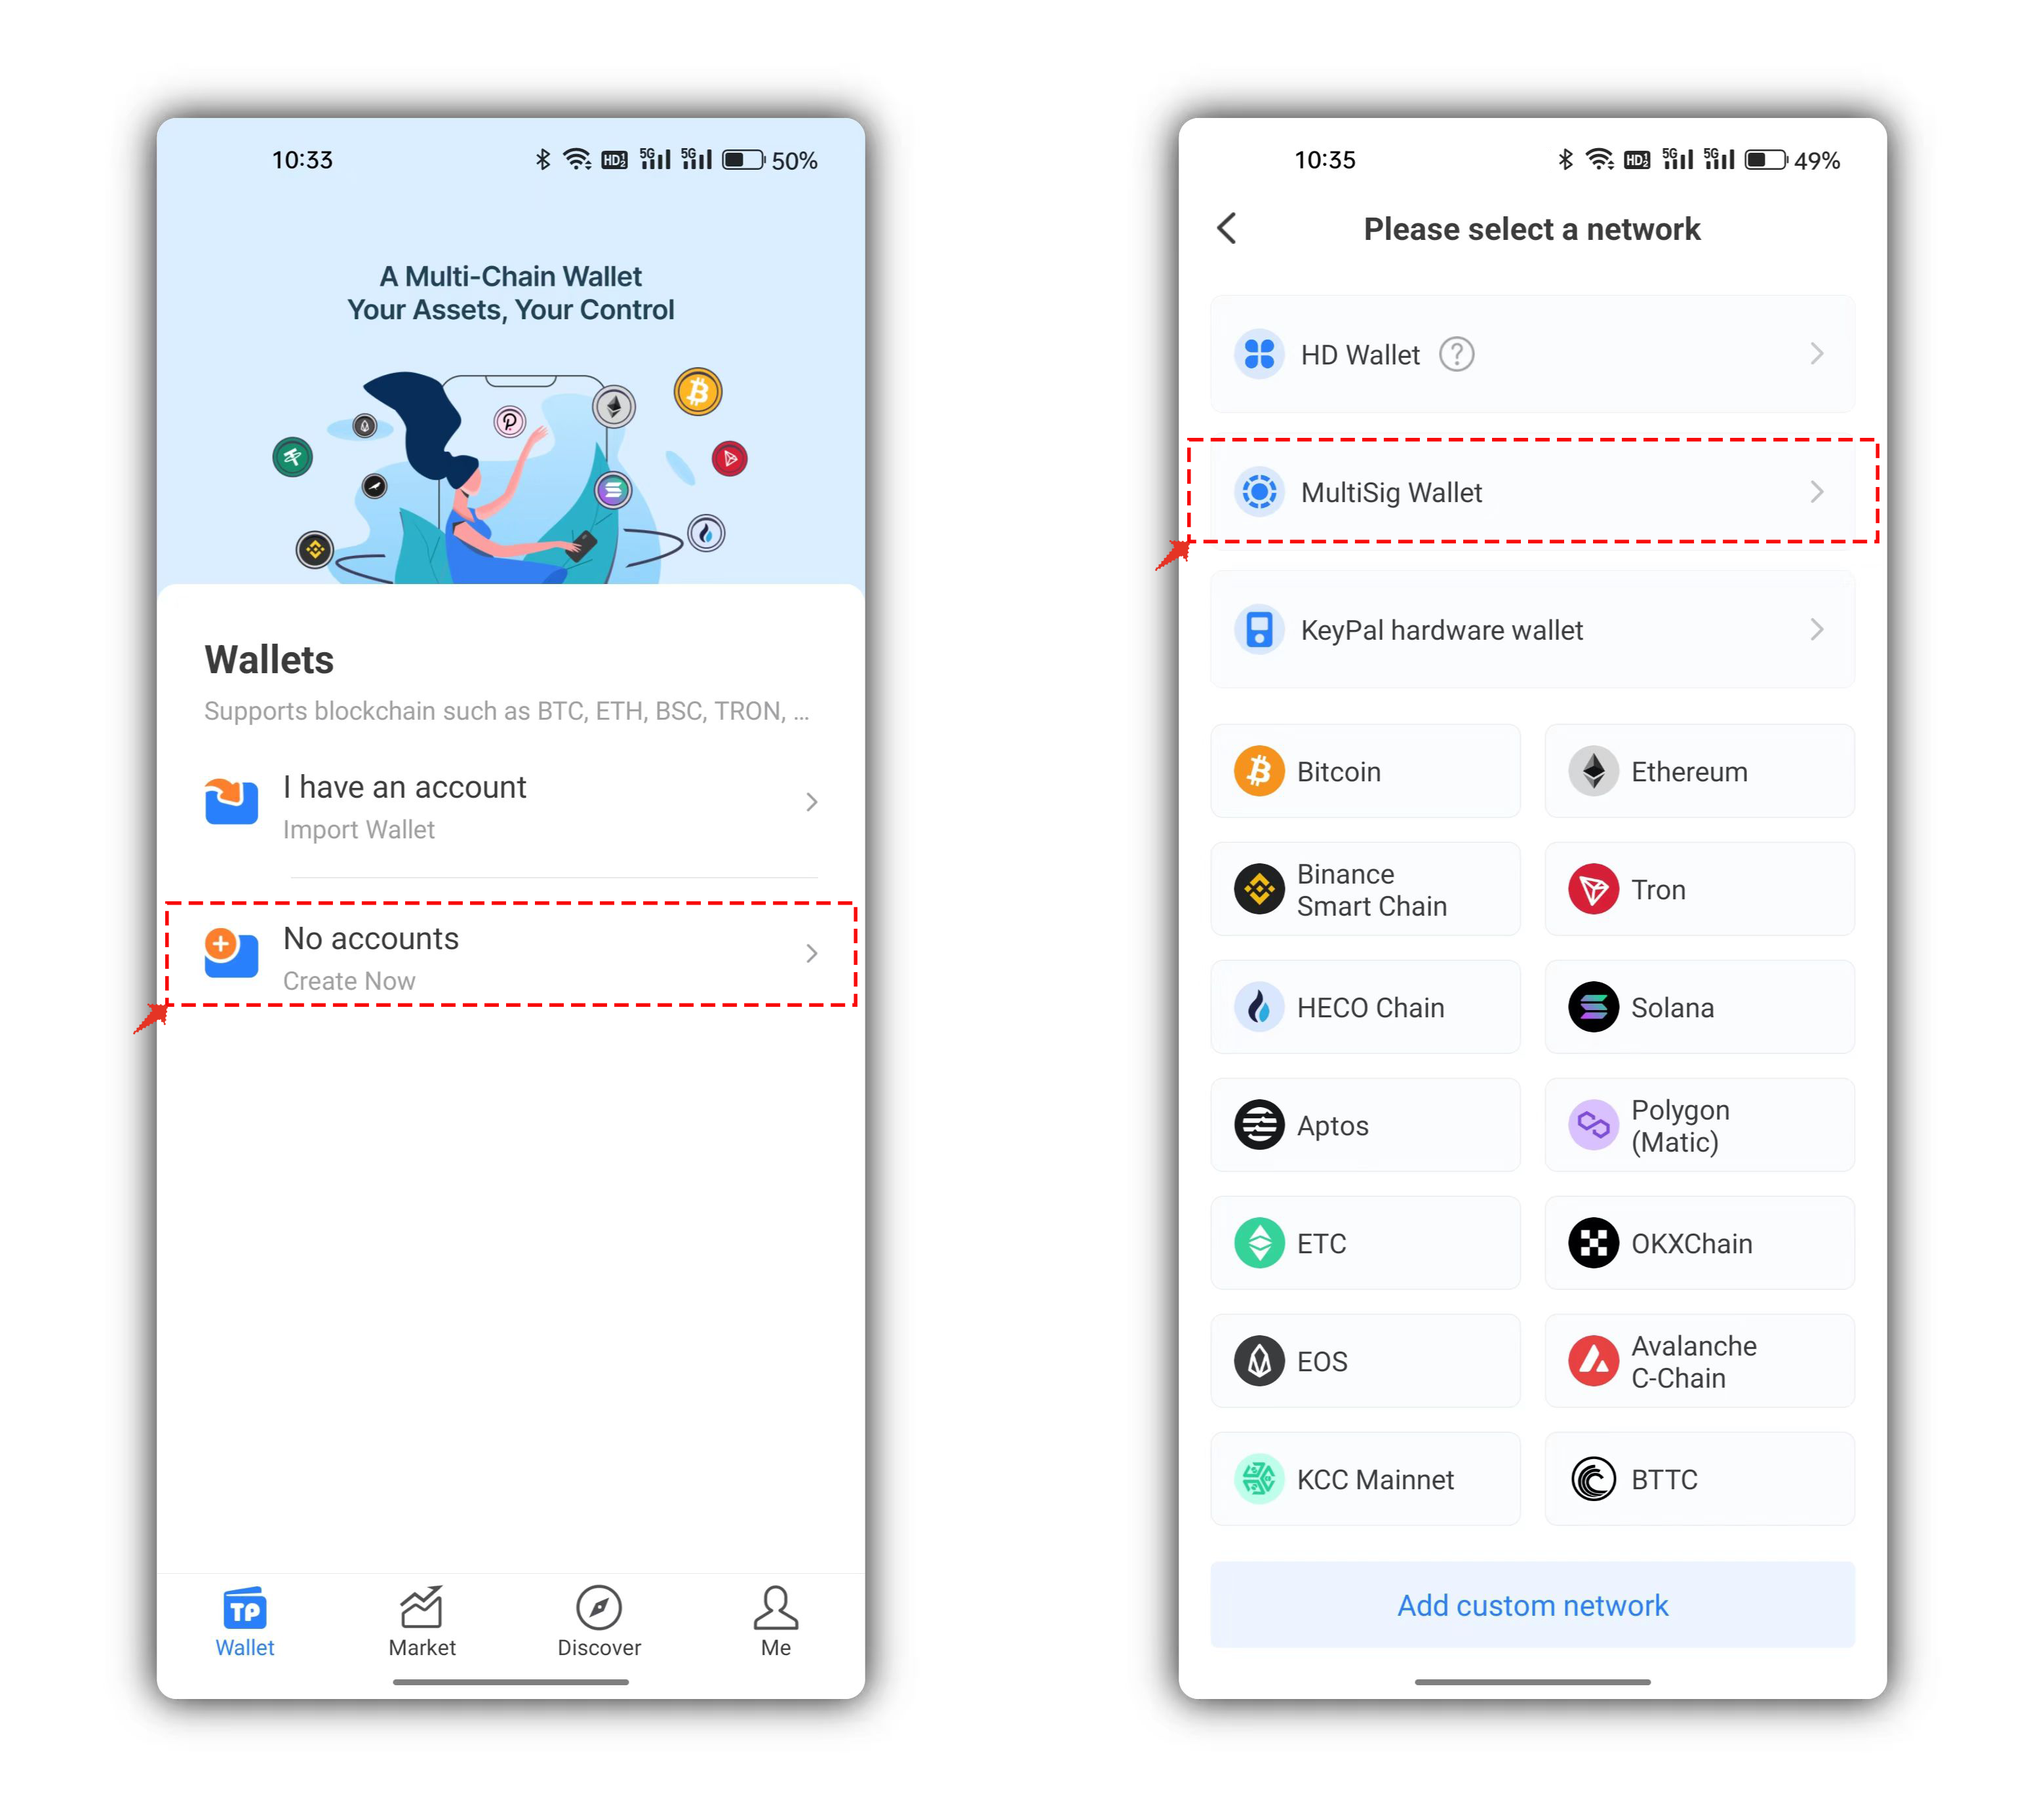
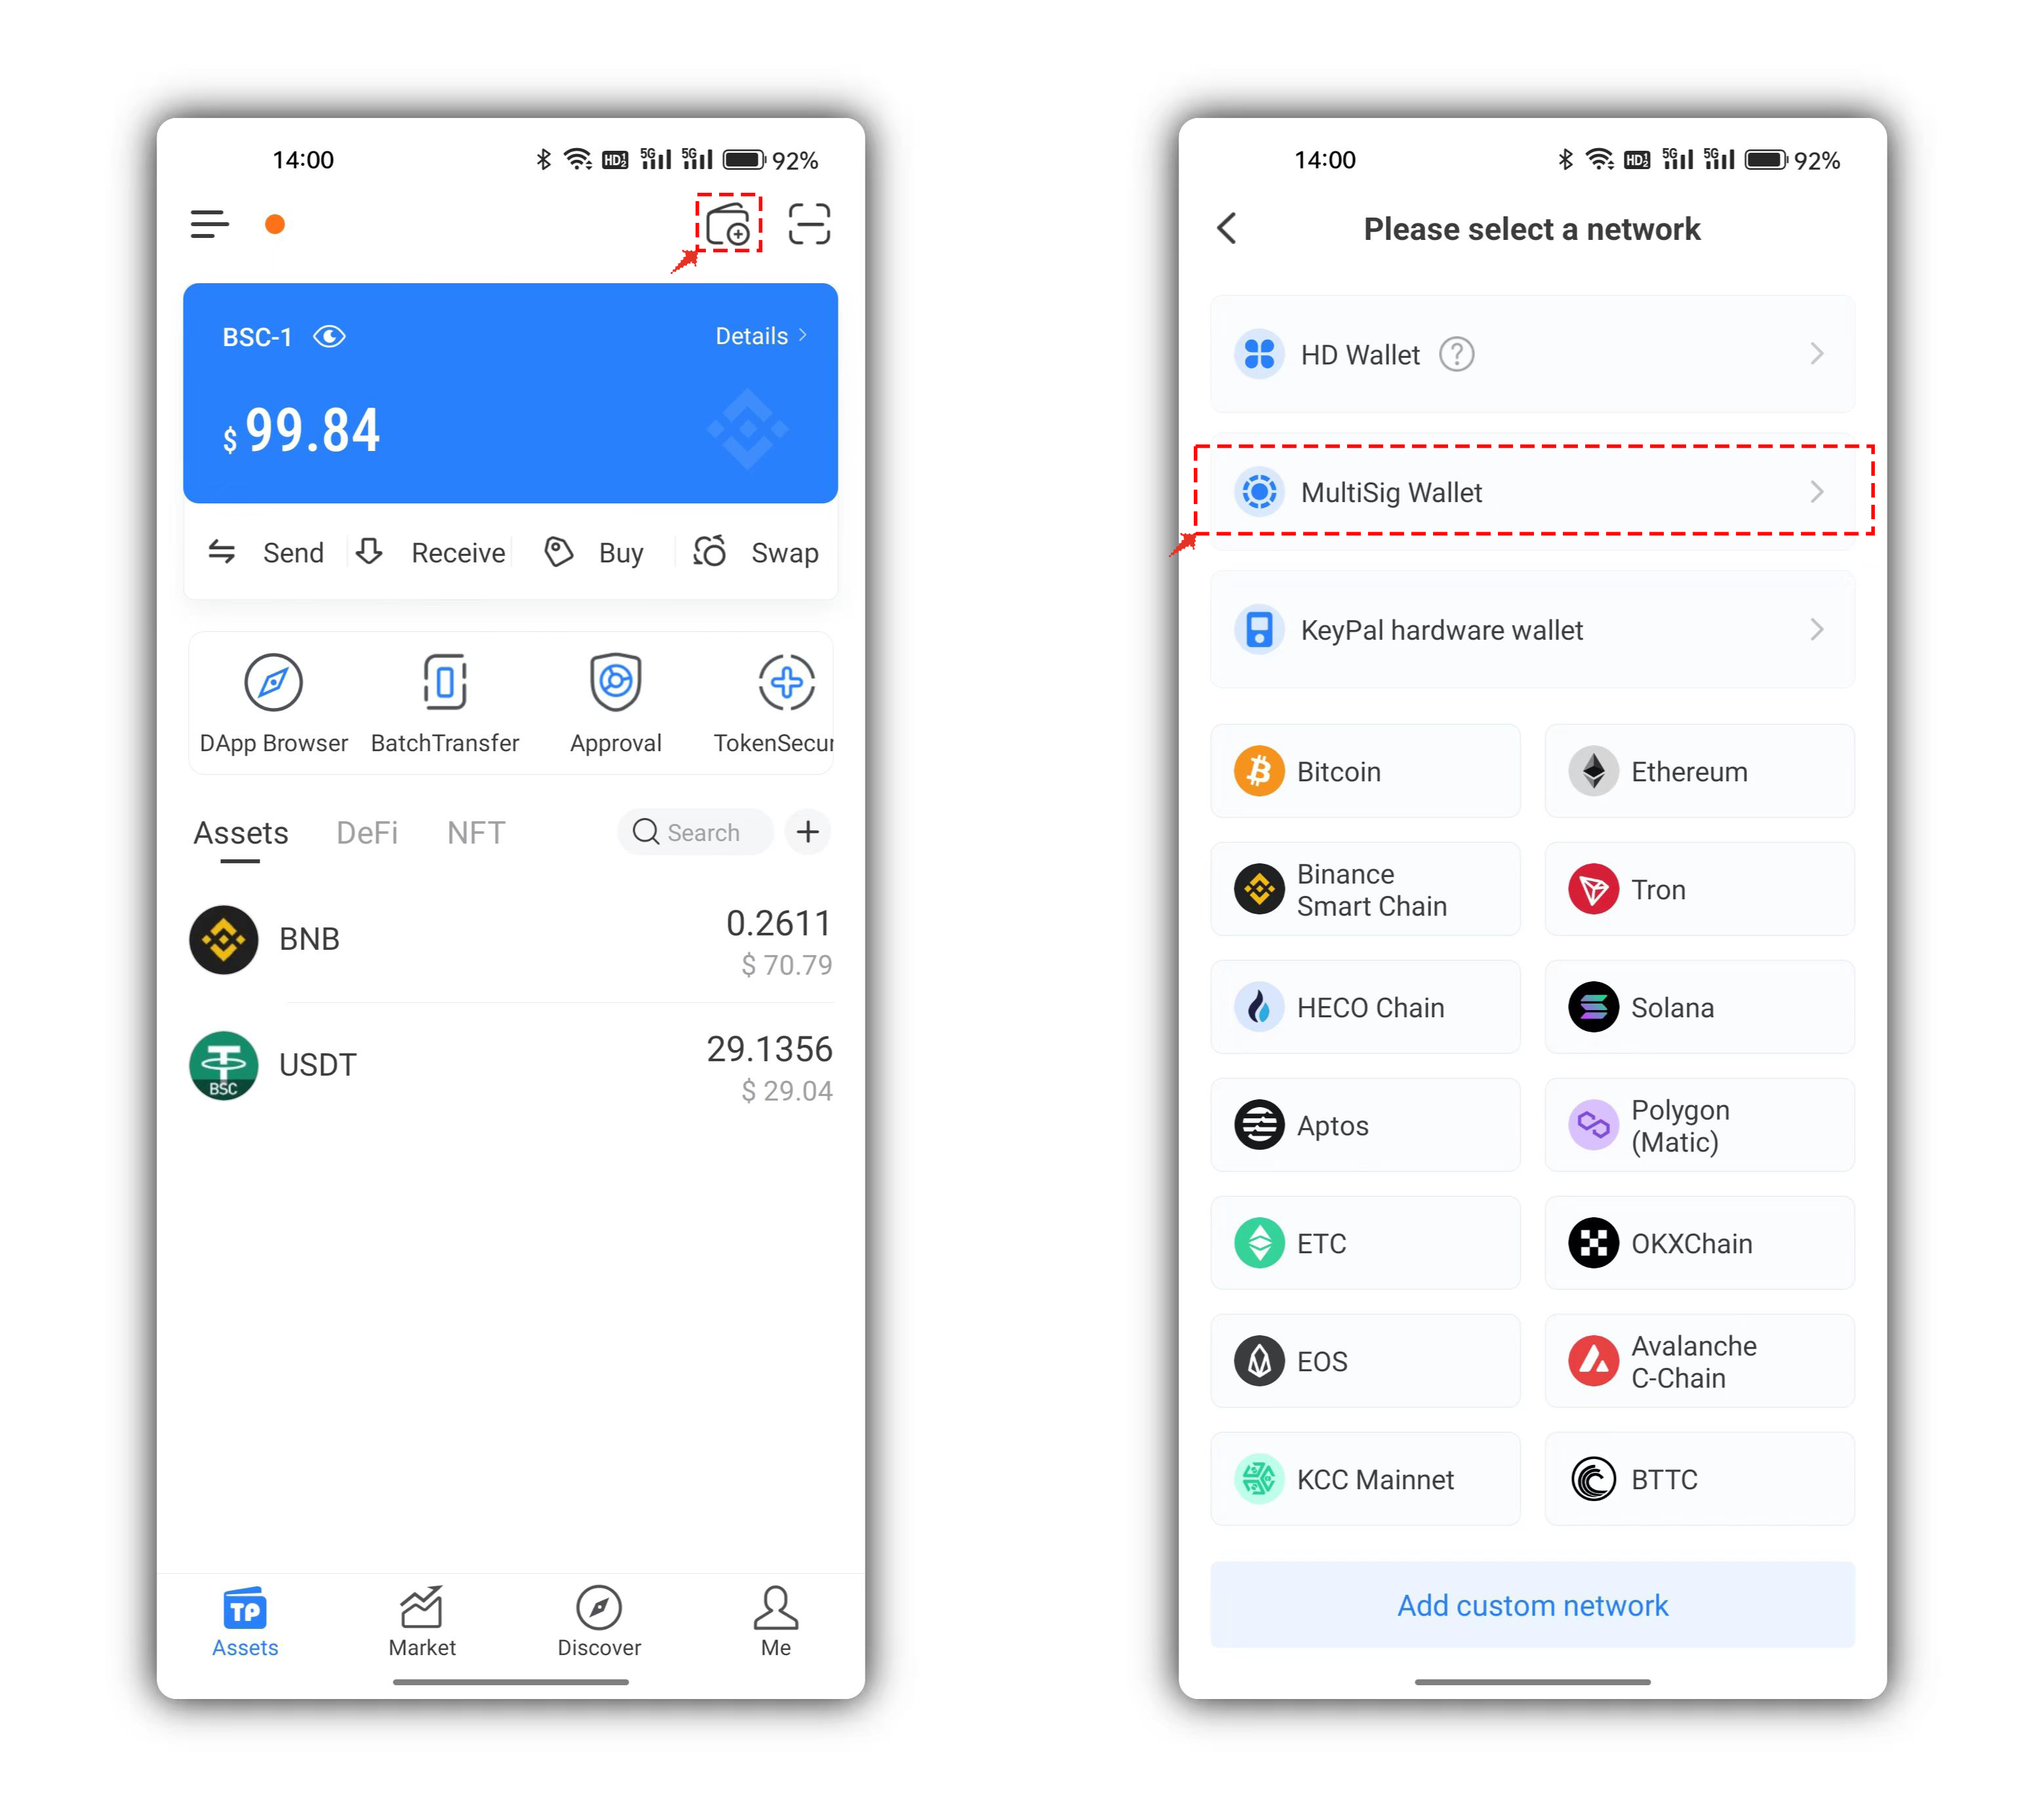
GitBook: [#880] No subject

diff --git a/wallet-faq-en/Multisig-Wallet/import.md b/wallet-faq-en/Multisig-Wallet/import.md
@@ -16,10 +16,16 @@ The multi-signature of ETH/ERC20 (including EVM chains such as BSC/BEP20) adopts
 
 ## Import a MultiSig Wallet
 
-1. Click the icon on the upper right corner and click \[MultiSig Wallet],click \[Import MultiSig Wallet].
+1. Click the icon on the upper right corner and click \[MultiSig Wallet].
 
+<figure><img src="../../.gitbook/assets/1 拷贝.png" alt=""><figcaption></figcaption></figure>
 
+2\. Click \[Import MultiSig Wallet], and choose network.
+
+<figure><img src="../../.gitbook/assets/2拷贝 (1).png" alt=""><figcaption></figcaption></figure>
 
 2\. You need to input or paste your multisig wallet's address and it will automatically identify the public chain you've created, the minimum number of required signatures, and owners. It's just as easy to use as a watch wallet, or even as a watch wallet.
 
-Then, click \[Confirm].
+Then, click \[Confirm]. You have successfully import MultiSig Wallet.
+
+<figure><img src="../../.gitbook/assets/3 拷贝 (2).png" alt=""><figcaption></figcaption></figure>

diff --git a/security-knowledge/security-measure/Token-Detection.md b/security-knowledge/security-measure/Token-Detection.md
@@ -8,7 +8,7 @@ Token trading through DEX is an often-used function in our daily life. Because o
 
 2、In the details interface, you can see the token information such as contract address and issuance volume. In the lower part, you can see the risk warning of the token, which is generally divided into “Security Warning” and “Danger Warning”, and the latter is most dangerous. Click “View more security information” to jump to the contract detection details, where you can view the security detection details of the token contract address.
 
-![](<../../.gitbook/assets/3 拷贝 (2).png>)
+![](<../../.gitbook/assets/3 拷贝 (2) (1).png>)
 
 3、At the top of the detection interface is a built-in gadget. Click the icon on the left to select the public chain supported by the tool, currently supporting Ethereum, BSC, Polygon, Avalanche, Arbitrum, Heco, OKC, Fantom, Harmony and Cronos, and more chains will be available.
 

diff --git a/wallet-faq-en/Multisig-Wallet/create.md b/wallet-faq-en/Multisig-Wallet/create.md
@@ -22,7 +22,7 @@ The ETH/ERC20(Including the EVM-based chains like BSC/BEP20, etc.) MultiSig wall
 
 1. Open TokenPocket and click \[No accounts] for the first time, and choose \[MultiSig Wallet]. You can also click the icon on the upper right corner to create a multisig wallet.
 
-<figure><img src="../../.gitbook/assets/1 拷贝.png" alt=""><figcaption></figcaption></figure>
+<figure><img src="../../.gitbook/assets/1 拷贝 (3).png" alt=""><figcaption></figcaption></figure>
 
 2\. You need to choose the public chain before you create a multisig wallet, please read the reminders carefully during the creation process and then click \[Next Step].
 
